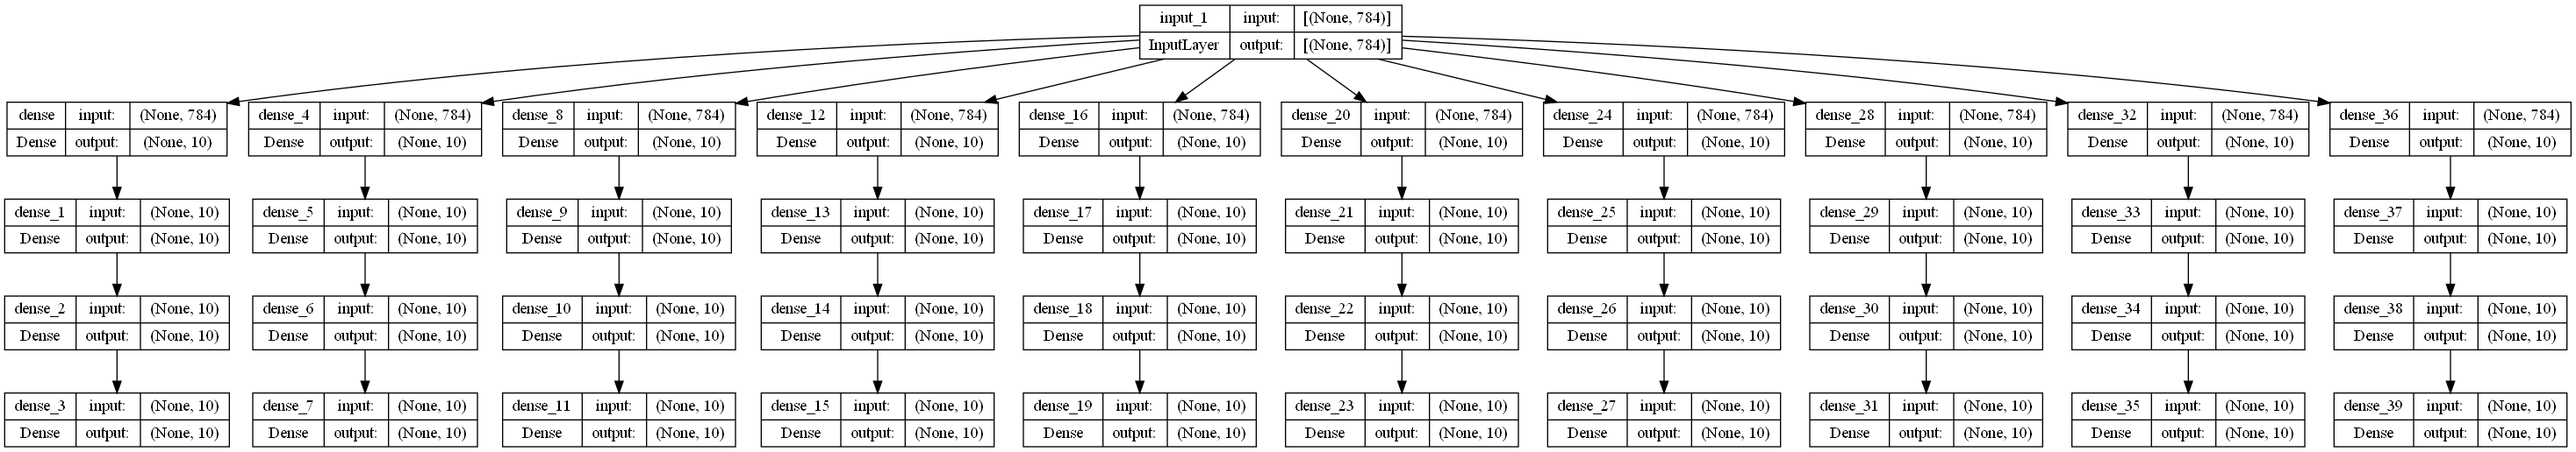
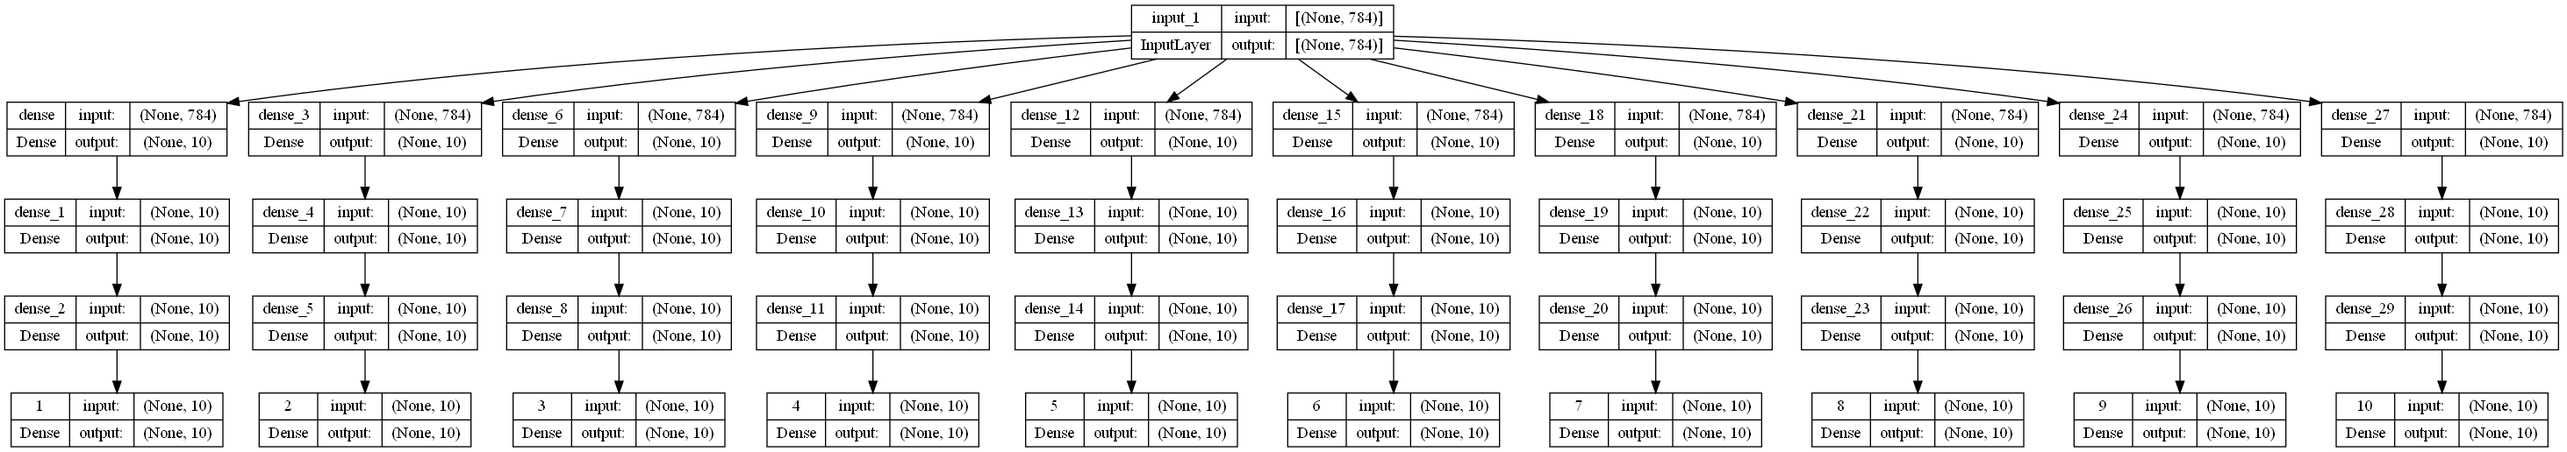
added new features

diff --git a/gui.py b/gui.py
@@ -1,0 +1,109 @@
+import tkinter as tk
+from tkinter import ttk
+import nn.Params as params
+
+def combobox(root, text, values, row, column, isReadonly):
+    label = ttk.Label(root, text=text)
+    label.grid(row=row, column=column-1, padx=5, pady=10)
+    combobox = ttk.Combobox(root, textvariable=tk.StringVar(), values=values)
+    combobox.set(values[0])
+    combobox.grid(row=row, column=column, padx=5, pady=10)
+    if isReadonly:
+        combobox.config(state="readonly")
+    return combobox
+
+def entry(root, text, value, row, column, isReadonly):
+    label = ttk.Label(root, text=text)
+    label.grid(row=row, column=column-1, padx=5, pady=10)
+    entry = ttk.Entry(root, textvariable=value)
+    entry.grid(row=row, column=column, padx=5, pady=10)
+    if isReadonly:
+        entry.config(state="readonly")
+    return entry
+
+def load():
+    tree1.delete(*tree1.get_children())
+    for i in range(50):
+        tree1.insert("", 'end', values=(str(i), str(90), str(88),"dense-softmax-10", "dense-softmax-10", "dense-softmax-10", "dense-softmax-10"))
+        tree2.insert("", 'end', values=(str(i), str(90), str(88),"dense-softmax-10", "dense-softmax-10", "dense-softmax-10", "dense-softmax-10"))
+
+def deneme():
+    from GeneticAlgorithm import GeneticAlgorithm
+    generationCount = 0
+    algorithm = GeneticAlgorithm(popSize=10, datasetSelection=1)
+    algorithm.initialPopulation()
+    results = algorithm.calculateFitness()
+    for result in results:
+        splitted_results = result[1].split('/')
+        tree2.insert("", 'end', 
+            values=(str(generationCount), str(result[0]), 80, splitted_results[0], splitted_results[1], splitted_results[2], splitted_results[3]))
+    print(algorithm.populationResult(generationCount))
+
+window = tk.Tk()
+window.resizable(False, False)
+window.title('Automatic Neural Network Search')
+
+output_string = tk.StringVar()
+input_string = tk.StringVar()
+
+dataset_frame = tk.LabelFrame(window, text="Dataset Settings")
+dataset_frame.grid(row=0, column=0, padx=10, pady=10)
+
+problem_type_select = combobox(dataset_frame, "Problem Type:", ("Multiclass Classification", "Binary Classification"), 0, 1, True)
+dataset_select = combobox(dataset_frame, "Dataset Selection:", ("Mnist", "Fashion Mnist"), 1, 1, False)
+spacer = ttk.Label(dataset_frame).grid(row=1, column=2, padx=20, pady=10)
+train_test_split_select = combobox(dataset_frame, "Train-Test Split Ratio:", (0.2, 0.33), 1, 4, False)
+
+input_select = entry(dataset_frame, "Input Layer:", input_string, 2, 1, True)
+input_string.set("(28*28, )")
+spacer2 = ttk.Label(dataset_frame).grid(row=1, column=2, padx=20, pady=10)
+output_select = entry(dataset_frame, "Output Layer:", output_string, 2, 4, True)
+output_string.set("Dense Softmax 10")
+
+model_frame = tk.LabelFrame(window, text="Model Hyperparameters Settings")
+model_frame.grid(row=1, column=0, padx=10, pady=10)
+loss_function_select = combobox(model_frame, "Loss Function:", params.ModelLossFunctions, 1, 1, True)
+spacer = ttk.Label(model_frame).grid(row=1, column=2, padx=20, pady=10)
+optimizer_algorithm_select = combobox(model_frame, "Optimizer Algorithm:", params.ModelOptimizers, 1, 4, True)
+
+start_button = ttk.Button(model_frame, text="START", command=load)
+start_button.grid(row=2, column=0, padx=10, pady=10)
+
+deneme_button = ttk.Button(model_frame, text="DENEME", command=deneme)
+deneme_button.grid(row=2, column=1, padx=10, pady=10)
+
+def createResultsView(root):
+    sub_frame = tk.Frame(root)
+    sub_frame.pack(padx=10, pady=10)
+    
+    tree = ttk.Treeview(sub_frame, show="headings", selectmode="extended")
+    tree["columns"] = ("1", "2", "3", "4", "5", "6", "7")
+    for i in range(8):
+        if i==1 or i==2 or i==3:
+            tree.column(str(i), width = 100, anchor ='c')
+        else:
+            tree.column(str(i), width = 150, anchor ='c')
+    tree.heading("1", text ="Generation")
+    tree.heading("2", text ="Accuracy")
+    tree.heading("3", text ="Val-Accuracy")
+    tree.heading("4", text ="Hidden Layer 1")
+    tree.heading("5", text ="Hidden Layer 2")
+    tree.heading("6", text ="Hidden Layer 3")
+    tree.heading("7", text ="Hidden Layer 4")
+
+    tree_scroll_y = tk.Scrollbar(sub_frame, command=tree.yview)
+    tree_scroll_y.pack(side="right", fill="y")
+    
+    tree.configure(yscrollcommand=tree_scroll_y.set)
+    tree.pack()
+    return tree
+
+best_results_frame = tk.LabelFrame(window, text="Best Results")
+best_results_frame.grid(row=2, column=0, padx=10, pady=10)
+tree1 = createResultsView(best_results_frame)
+
+all_results_frame = tk.LabelFrame(window, text="All Results")
+all_results_frame.grid(row=3, column=0, padx=10, pady=10)
+tree2 = createResultsView(all_results_frame)
+
+window.mainloop()

diff --git a/main.py b/main.py
@@ -2,10 +2,10 @@ from GeneticAlgorithm import GeneticAlgorithm
 
 generationCount = 0
 
-algorithm = GeneticAlgorithm(popSize=10, datasetSelection=0)
+algorithm = GeneticAlgorithm(popSize=10, datasetSelection=1)
 
 algorithm.initialPopulation()
-algorithm.calculateFitness()
+print(algorithm.calculateFitness())
 print(algorithm.populationResult(generationCount))
 
 while generationCount < 10:
@@ -13,7 +13,7 @@ while generationCount < 10:
     algorithm.selection()
     algorithm.crossOver()
     algorithm.mutation()
-    algorithm.calculateFitness()
+    print(algorithm.calculateFitness())
     print(algorithm.populationResult(generationCount))
 
 print("Solution found.")

diff --git a/GeneticAlgorithm.py b/GeneticAlgorithm.py
@@ -41,8 +41,10 @@ class GeneticAlgorithm():
     def calculateFitness(self):
         self.network.calculateResults()
         self.network.models.sort(key=lambda i: i.fitness, reverse=True)
+        calculatedResults = []
         for model in self.network.models:
-            print("{} {}".format(model.fitness, model.toString()))
+            calculatedResults.append([model.fitness, model.toString()])
+        return calculatedResults
 
     def populationResult(self, generationCount):
         return "Generation: {}  Fittest Score: {} Fittest Model: {}".format(

diff --git a/test.py b/test.py
@@ -41,4 +41,4 @@ for key,value in enumerate(history.history):
     if value.endswith("accuracy"):
         print(str(history.history[value][-1]*100))
 
-keras.utils.plot_model(model, "my_first_model_with_shape_info.png", show_shapes=True)
+keras.utils.plot_model(model, "my_first_model_with_shape_info.png", show_shapes=True, show_layer_names=False, show_layer_activations=True)

diff --git a/nn/Params.py b/nn/Params.py
@@ -11,3 +11,6 @@ layerActivations = ["relu", "sigmoid", "softmax", "softplus", "softsign", "tanh"
 
 # Optimizer functions of neural networks
 ModelOptimizers = ["rmsprop", "adam"]
+
+# Loss functions of neural networks
+ModelLossFunctions = ["categorical_crossentropy"]
